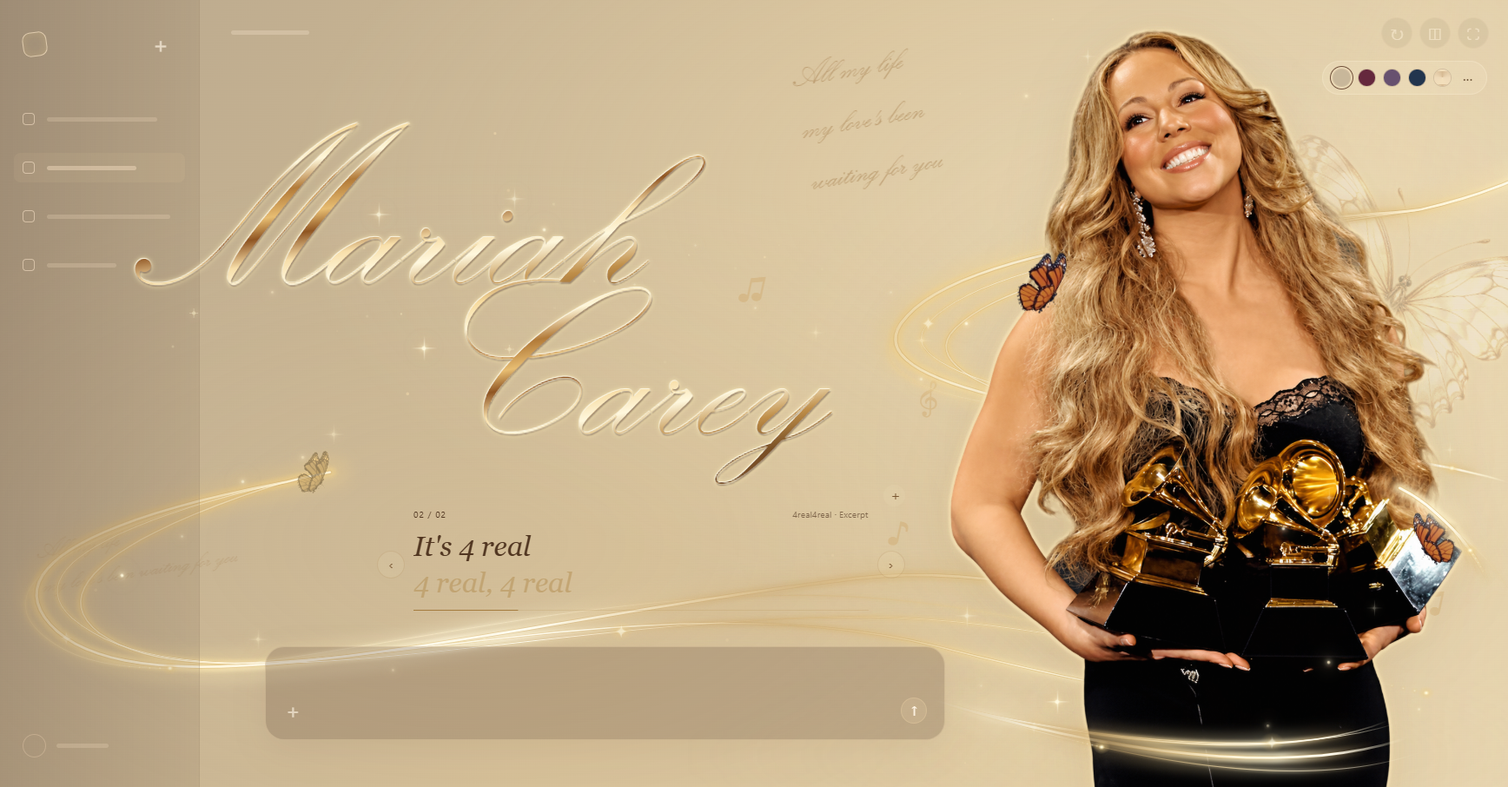
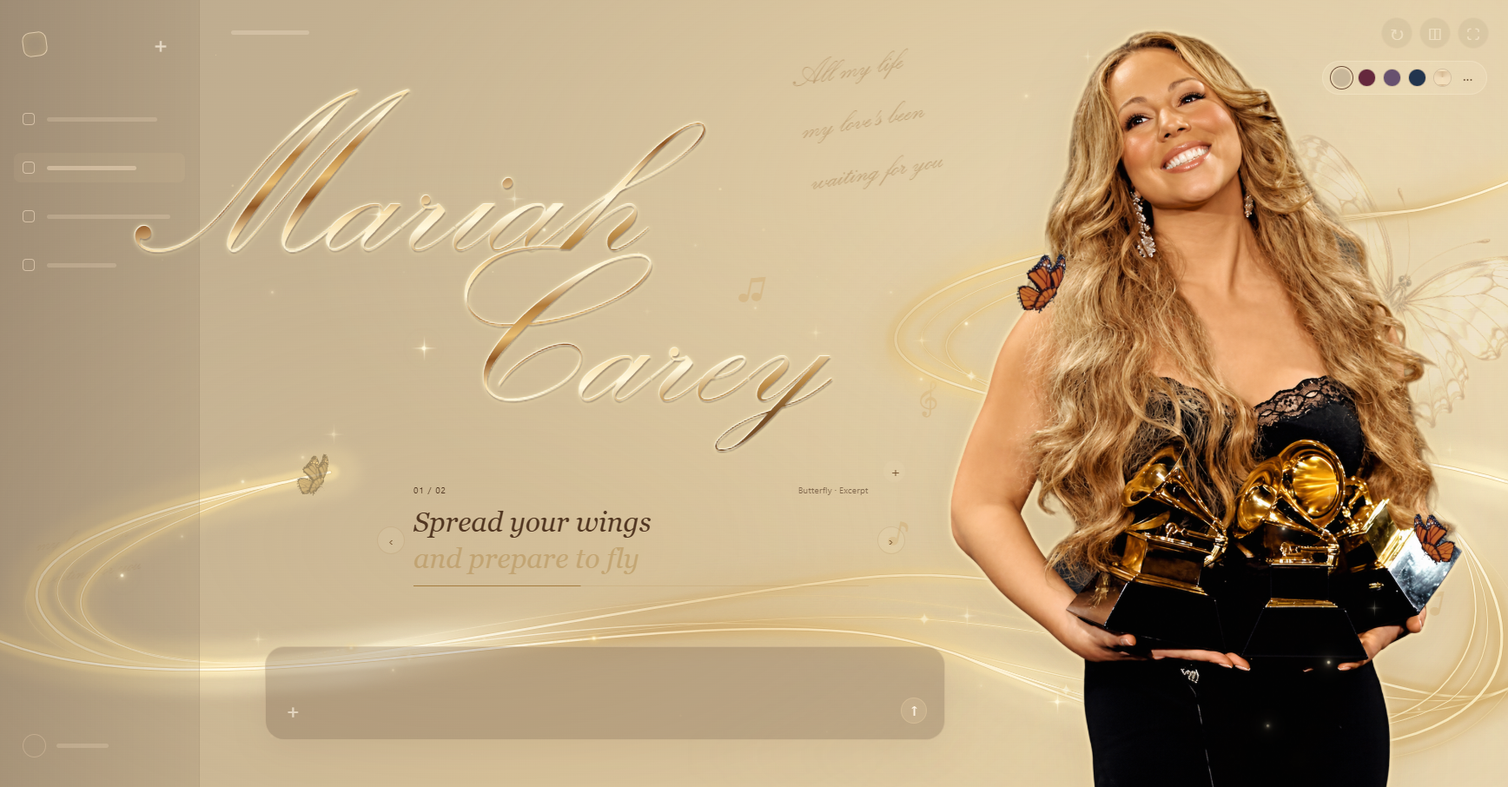
Refine connected light trails and daily lyric controls

diff --git a/theme-upgrade.js b/theme-upgrade.js
@@ -7,31 +7,35 @@
  const butterfly=document.createElementNS(svgNS,'svg');butterfly.classList.add('rear-butterfly');butterfly.setAttribute('viewBox','60 20 180 210');butterfly.setAttribute('aria-hidden','true');const wing=document.createElementNS(svgNS,'image');wing.setAttribute('href','butterfly-frames/sheet00.webp');wing.setAttribute('width','2800');wing.setAttribute('height','1620');butterfly.append(wing);stage.append(butterfly);
  const stars=document.createElement('div');stars.className='accent-stars';stars.setAttribute('aria-hidden','true');for(const [i,p] of [[68,9],[84,28],[75,56],[82,63],[89,74],[94,88],[28,32],[43,51],[17,67]].entries()){const star=document.createElement('span');star.className='accent-star';star.style.cssText=`left:${p[0]}%;top:${p[1]}%;animation-delay:-${i*1.7}s`;stars.append(star)}stage.append(stars);
  const upper=document.createElement('p'),lower=document.createElement('p');upper.className='bg-words upper';lower.className='bg-words lower';stage.append(upper,lower);
- const KEY='mariah.lyrics.v1',DAILY='mariah.daily.allmylife.v1';let storageError=false;
+ const KEY='mariah.lyrics.v1';let storageError=false;
  function read(key,fallback){try{return JSON.parse(localStorage.getItem(key))??fallback}catch{return fallback}}
  function write(key,data){try{localStorage.setItem(key,JSON.stringify(data));return true}catch{storageError=true;return false}}
  function validSong(s){return s&&typeof s.id==='string'&&typeof s.title==='string'&&Array.isArray(s.lines)&&s.lines.length&&s.lines.every(l=>typeof l.text==='string'&&Number.isFinite(l.time)&&l.time>=0)}
  let saved=read(KEY,{songs:[],seconds:5});let songs=Array.isArray(saved.songs)?saved.songs.filter(validSong):[];let seconds=Math.min(30,Math.max(2,Number(saved.seconds)||5));
+ let displayMode=saved.displayMode==='two'?'two':'all';
  // Brief verified excerpts; full lyrics are not bundled.
  const demo=[{id:'excerpt-butterfly',title:'Butterfly · Excerpt',timed:false,lines:['Spread your wings','and prepare to fly'].map(text=>({text,time:0}))},{id:'excerpt-4real4real',title:'4real4real · Excerpt',timed:false,lines:["It's 4 real",'4 real, 4 real'].map(text=>({text,time:0}))}];
  const panel=document.createElement('section');panel.className='lyrics-panel';panel.setAttribute('aria-label','滚动歌词');panel.innerHTML='<button class="lyrics-manage" title="导入与管理歌词" aria-label="导入与管理歌词">＋</button><div class="lyrics-top"><span class="song-number"></span><span class="song-title"></span></div><div class="lyric-display"><button class="lyric-arrow previous-song" aria-label="上一首">‹</button><div class="lyric-window" aria-live="off"></div><button class="lyric-arrow next-song" aria-label="下一首">›</button></div><div class="lyric-progress"><span></span></div>';stage.append(panel);
- const dialog=document.createElement('dialog');dialog.className='library';dialog.innerHTML='<header><h2>歌词库</h2><button class="library-close" aria-label="关闭">×</button></header><p>批量导入 TXT / LRC，保存在当前浏览器。仅展示文字，不播放音乐。点击歌名可修改。</p><div class="library-actions"><label class="library-upload">导入歌词<input type="file" accept=".txt,.lrc" multiple hidden></label></div><label for="txt-seconds">无时间戳歌词，每句 <input id="txt-seconds" type="number" min="2" max="30" step="1"> 秒</label><div class="library-list"></div><p class="library-feedback" role="status"></p>';document.body.append(dialog);
+ const dialog=document.createElement('dialog');dialog.className='library';dialog.innerHTML='<header><h2>歌词库</h2><button class="library-close" aria-label="关闭">×</button></header><p>批量导入 TXT / LRC，保存在当前浏览器。仅展示文字，不播放音乐。每天固定一首循环展示，次日自动更换。背景使用另一首已设置背景片段的歌曲。</p><div class="library-actions"><label class="library-upload">导入歌词<input type="file" accept=".txt,.lrc" multiple hidden></label></div><label for="txt-seconds">无时间戳歌词，每句 <input id="txt-seconds" type="number" min="2" max="30" step="1"> 秒</label><label class="library-setting">滚动范围 <select id="lyrics-range"><option value="all">全部歌词</option><option value="two">指定两句</option></select></label><div class="library-list"></div><p class="library-feedback" role="status"></p>';document.body.append(dialog);
  const windowEl=panel.querySelector('.lyric-window'),progress=panel.querySelector('.lyric-progress span'),feedback=dialog.querySelector('.library-feedback');let activeId='',index=0,started=performance.now(),lineIndex=-1,lastDate='',lastTick=0,raf=0,animations=[];
- function library(){return songs.length?songs:demo}function persist(){const ok=write(KEY,{songs,seconds});if(!ok)feedback.textContent='浏览器存储不可用，本次导入仅在当前页面有效。';return ok}
- function schedule(song){return song.lines.map((l,i)=>({text:l.text,time:song.timed?l.time:i*seconds}))}
+ function library(){return songs.length?songs:demo}function persist(){const ok=write(KEY,{songs,seconds,displayMode});if(!ok)feedback.textContent='浏览器存储不可用，本次导入仅在当前页面有效。';return ok}
+ function schedule(song){const start=Math.min(song.startLine||0,Math.max(0,song.lines.length-2));const selected=displayMode==='two'?song.lines.slice(start,start+2):song.lines;const base=selected[0].time;return selected.map((l,i)=>({text:l.text,time:song.timed?l.time-base:i*seconds}))}
  function disposeAnimations(){animations.forEach(a=>a.cancel());animations=[]}
  function showLines(lines,i,slide){disposeAnimations();const old=windowEl.children[0]?.textContent;windowEl.replaceChildren();const rows=slide?[old||'',lines[i].text,lines[i+1]?.text||lines[0].text]:[lines[i].text,lines[i+1]?.text||lines[0].text];rows.forEach((text,j)=>{const row=document.createElement('div');row.className='lyric-line';row.textContent=text;const finalRow=slide?j-1:j;row.style.transform=`translateY(${finalRow*42}px)`;row.style.opacity=finalRow===0?'1':finalRow===1?'.5':'0';if(finalRow===1)row.classList.add('lyric-next');windowEl.append(row);if(slide&&!reduced){animations.push(row.animate([{transform:`translateY(${j*42}px)`,opacity:j===0?1:j===1?.5:0},{transform:`translateY(${finalRow*42}px)`,opacity:finalRow===0?1:finalRow===1?.5:0}],{duration:650,easing:'cubic-bezier(.25,.1,.25,1)'}))}});if(slide){setTimeout(()=>{if(windowEl.children.length===3)windowEl.children[0].remove()},680)}}
- function setSong(n){const list=library();index=((n%list.length)+list.length)%list.length;activeId=list[index].id;started=performance.now();lineIndex=-1;disposeAnimations();windowEl.replaceChildren();panel.querySelector('.song-number').textContent=`${String(index+1).padStart(2,'0')} / ${String(list.length).padStart(2,'0')}`;panel.querySelector('.song-title').textContent=list[index].title;panel.querySelector('.song-title').title=list[index].title;if(!reduced)windowEl.animate([{opacity:0},{opacity:1}],{duration:650});tick(started,true)}
- function tick(now,force=false){if(!force&&now-lastTick<40)return;lastTick=now;const song=library()[index];if(!song)return;const lines=schedule(song),elapsed=(now-started)/1000,duration=lines.at(-1).time+seconds;if(elapsed>=duration){const total=library().length;setSong(total>1?(index+1+Math.floor(Math.random()*(total-1)))%total:0);return}let next=0;while(next+1<lines.length&&elapsed>=lines[next+1].time)next++;if(next!==lineIndex){showLines(lines,next,lineIndex>=0&&next===lineIndex+1);lineIndex=next}progress.style.transform=`scaleX(${Math.min(1,elapsed/duration)})`}
+ function setSong(n){const list=library();index=((n%list.length)+list.length)%list.length;activeId=list[index].id;started=performance.now();lineIndex=-1;disposeAnimations();windowEl.replaceChildren();panel.querySelector('.song-number').textContent=`${String(index+1).padStart(2,'0')} / ${String(list.length).padStart(2,'0')}`;panel.querySelector('.song-title').textContent=list[index].title;panel.querySelector('.song-title').title=list[index].title;if(!reduced)windowEl.animate([{opacity:0},{opacity:1}],{duration:650});tick(started,true);updateBackground()}
+ function tick(now,force=false){if(!force&&now-lastTick<40)return;lastTick=now;const song=library()[index];if(!song)return;const lines=schedule(song),elapsed=(now-started)/1000,duration=lines.at(-1).time+seconds;if(elapsed>=duration){setSong(index);return}let next=0;while(next+1<lines.length&&elapsed>=lines[next+1].time)next++;if(next!==lineIndex){showLines(lines,next,lineIndex>=0&&next===lineIndex+1);lineIndex=next}progress.style.transform=`scaleX(${Math.min(1,elapsed/duration)})`}
  function loop(now){if(!document.hidden)tick(now);raf=requestAnimationFrame(loop)}
  panel.querySelector('.previous-song').onclick=()=>setSong(index-1);panel.querySelector('.next-song').onclick=()=>setSong(index+1);panel.querySelector('.lyrics-manage').onclick=()=>{renderLibrary();dialog.showModal()};dialog.querySelector('.library-close').onclick=()=>dialog.close();dialog.addEventListener('click',e=>{if(e.target===dialog){const r=dialog.getBoundingClientRect();if(e.clientX<r.left||e.clientX>r.right||e.clientY<r.top||e.clientY>r.bottom)dialog.close()}});
- function renderLibrary(){dialog.querySelector('#txt-seconds').value=seconds;const list=dialog.querySelector('.library-list');list.replaceChildren();if(!songs.length){const p=document.createElement('p');p.textContent='当前展示 Butterfly 与 4real4real 的简短节选。';list.append(p)}songs.forEach(song=>{const row=document.createElement('div');row.className='library-row';const info=document.createElement('div'),name=document.createElement('input'),detail=document.createElement('small'),remove=document.createElement('button');name.value=song.title;name.setAttribute('aria-label','歌曲名称');name.onchange=()=>{song.title=name.value.trim()||'未命名歌曲';name.value=song.title;persist();if(activeId===song.id)panel.querySelector('.song-title').textContent=song.title};detail.textContent=`${song.lines.length} 行 · ${song.timed?'LRC 时间戳':'逐句计时'}`;remove.textContent='删除';remove.onclick=()=>{songs=songs.filter(s=>s.id!==song.id);persist();renderLibrary();setSong(0)};info.append(name,detail);row.append(info,remove);list.append(row)})}
+ function renderLibrary(){dialog.querySelector('#txt-seconds').value=seconds;dialog.querySelector('#lyrics-range').value=displayMode;const list=dialog.querySelector('.library-list');list.replaceChildren();if(!songs.length){const p=document.createElement('p');p.textContent='当前展示 Butterfly 与 4real4real 的简短节选。';list.append(p)}songs.forEach(song=>{const row=document.createElement('div');row.className='library-row';const info=document.createElement('div'),name=document.createElement('input'),detail=document.createElement('small'),remove=document.createElement('button');name.value=song.title;name.setAttribute('aria-label','歌曲名称');name.onchange=()=>{song.title=name.value.trim()||'未命名歌曲';name.value=song.title;persist();if(activeId===song.id)panel.querySelector('.song-title').textContent=song.title};detail.textContent=`${song.lines.length} 行 · ${song.timed?'LRC 时间戳':'逐句计时'}`;remove.textContent='删除';remove.onclick=()=>{songs=songs.filter(s=>s.id!==song.id);persist();renderLibrary();setSong(0);updateBackground()};const range=document.createElement('select');range.setAttribute('aria-label',song.title+'：选择滚动的两句');song.lines.forEach((line,i)=>{if(i>Math.max(0,song.lines.length-2))return;const option=document.createElement('option');option.value=i;option.textContent=`第 ${i+1} 句起：${line.text}`;range.append(option)});range.value=Math.min(song.startLine||0,Math.max(0,song.lines.length-2));range.disabled=displayMode!=='two';range.onchange=()=>{song.startLine=Number(range.value);persist();if(activeId===song.id)setSong(index)};const background=document.createElement('textarea');background.rows=3;background.placeholder='背景歌词片段（从你上传的歌词中选择，逐行填写）';background.setAttribute('aria-label',song.title+'：背景歌词片段');background.value=Array.isArray(song.background)?song.background.join('\n'):'';background.onchange=()=>{const requested=background.value.split(/\r?\n/).map(t=>t.trim()).filter(Boolean);const available=new Set(song.lines.map(l=>l.text));if(requested.some(t=>!available.has(t))){feedback.textContent='背景片段请填写这首歌已导入的原句。';return}song.background=requested;persist();updateBackground()};info.append(name,detail,range,background);row.append(info,remove);list.append(row)})}
+ dialog.querySelector('#lyrics-range').onchange=e=>{displayMode=e.target.value;persist();setSong(index);renderLibrary()};
  dialog.querySelector('#txt-seconds').onchange=e=>{seconds=Math.min(30,Math.max(2,Number(e.target.value)||5));e.target.value=seconds;persist();setSong(index)};
  function parse(text,fileName){text=text.replace(/^\uFEFF/,'');const title=text.match(/\[ti:([^\]]+)\]/i)?.[1]?.trim()||fileName.replace(/\.(txt|lrc)$/i,'');const offset=Number(text.match(/\[offset:([+-]?\d+)\]/i)?.[1]||0)/1000;const timed=[];const plain=[];for(const raw of text.split(/\r?\n/)){const stamps=[...raw.matchAll(/\[(\d+):(\d{1,2}(?:\.\d+)?)\]/g)];const content=raw.replace(/\[[^\]]*\]/g,'').trim();if(!content)continue;if(stamps.length){for(const m of stamps)timed.push({time:Math.max(0,Number(m[1])*60+Number(m[2])+offset),text:content})}else if(!/^\s*\[/.test(raw))plain.push({time:0,text:content})}const lines=timed.length?timed.sort((a,b)=>a.time-b.time):plain;return lines.length?{id:crypto.randomUUID(),title,timed:timed.length>0,lines}:null}
- dialog.querySelector('input[type=file]').onchange=async e=>{let added=0;const rejected=[];for(const file of e.target.files){if(!/\.(txt|lrc)$/i.test(file.name)){rejected.push(file.name);continue}try{const song=parse(await file.text(),file.name);if(song){songs.push(song);added++}else rejected.push(file.name)}catch{rejected.push(file.name)}}if(added){persist();setSong(songs.length-added)}renderLibrary();feedback.textContent=storageError?'浏览器存储不可用，当前数据尚未持久保存。':`已导入 ${added} 首。${rejected.length?'未能读取：'+rejected.join('、'):''}`;e.target.value=''};
+ dialog.querySelector('input[type=file]').onchange=async e=>{let added=0;const rejected=[];for(const file of e.target.files){if(!/\.(txt|lrc)$/i.test(file.name)){rejected.push(file.name);continue}try{const song=parse(await file.text(),file.name);if(song){songs.push(song);added++}else rejected.push(file.name)}catch{rejected.push(file.name)}}if(added){persist();setSong(dayIndex(songs.length));updateBackground()}renderLibrary();feedback.textContent=storageError?'浏览器存储不可用，当前数据尚未持久保存。':`已导入 ${added} 首。${rejected.length?'未能读取：'+rejected.join('、'):''}`;e.target.value=''};
  function dateKey(){const d=new Date();return `${d.getFullYear()}-${String(d.getMonth()+1).padStart(2,'0')}-${String(d.getDate()).padStart(2,'0')}`}
- function daily(){const day=dateKey();if(day===lastDate)return;lastDate=day;let cached=read(DAILY,null);if(cached?.day!==day||!Array.isArray(cached.text)){const upperLines=['All my life',"my love's been",'waiting for you'];const lowerLines=['All my life',"my love's been waiting for you"];const picked=[...upperLines,...lowerLines];cached={day,text:picked};write(DAILY,cached)}for(const [el,lines] of [[upper,cached.text.slice(0,3)],[lower,cached.text.slice(3,5)]]){el.replaceChildren();for(const text of lines){const line=document.createElement('span');line.textContent=text;el.append(line)}}}
- daily();let dailyTimer=setInterval(daily,15000);setSong(0);raf=requestAnimationFrame(loop);
+ function dayIndex(count){const d=new Date();return Math.floor(Date.UTC(d.getFullYear(),d.getMonth(),d.getDate())/86400000)%count}
+ function updateBackground(){const list=library();const candidates=list.filter(s=>s.id!==activeId&&Array.isArray(s.background)&&s.background.length);const picked=candidates.length?candidates[dayIndex(candidates.length)].background:['All my life',"my love's been",'waiting for you'];for(const [el,lines] of [[upper,picked.slice(0,4)],[lower,picked.slice(-2)]]){el.replaceChildren();for(const text of lines){const line=document.createElement('span');line.textContent=text;el.append(line)}}}
+ function daily(){const day=dateKey();if(day===lastDate)return;lastDate=day;setSong(dayIndex(library().length));updateBackground()}
+ daily();let dailyTimer=setInterval(daily,15000);raf=requestAnimationFrame(loop);
  document.querySelector('#replay').addEventListener('click',()=>{panel.style.animation='none';void panel.offsetWidth;panel.style.animation=''});
  addEventListener('pagehide',()=>{cancelAnimationFrame(raf);clearInterval(dailyTimer);disposeAnimations()});addEventListener('pageshow',e=>{if(e.persisted){daily();dailyTimer=setInterval(daily,15000);raf=requestAnimationFrame(loop)}});
 })();

diff --git a/reference-visual.js b/reference-visual.js
@@ -78,15 +78,15 @@ stage.classList.add('flow-study');
 function mount(curves,key,front=false){
 const svg=document.createElementNS(NS,'svg');svg.setAttribute('class','golden-flow-study');svg.setAttribute('viewBox','0 0 1600 1000');svg.setAttribute('preserveAspectRatio','none');svg.setAttribute('aria-hidden','true');
 svg.innerHTML=`<defs>
-<linearGradient id="flowGold" x1="0" y1="0" x2="1" y2=".3"><stop stop-color="#bd9250" stop-opacity="0"/><stop offset=".15" stop-color="#efcf89" stop-opacity=".8"/><stop offset=".32" stop-color="#f6dfa6"/><stop offset=".44" stop-color="#fff8dc"/><stop offset=".56" stop-color="#c9a263" stop-opacity=".3"/><stop offset=".72" stop-color="#edd39a"/><stop offset=".88" stop-color="#fff4ce"/><stop offset="1" stop-color="#d1ab68" stop-opacity="0"/></linearGradient>
-<linearGradient id="flowEdge" x1="0" y1="0" x2="1" y2=".3"><stop stop-color="#b68d50" stop-opacity="0"/><stop offset=".2" stop-color="#c8a361" stop-opacity=".65"/><stop offset=".42" stop-color="#e9cc8e"/><stop offset=".57" stop-color="#bd9556" stop-opacity=".35"/><stop offset=".8" stop-color="#ddbd7a"/><stop offset="1" stop-color="#cfac6a" stop-opacity="0"/></linearGradient>
-<linearGradient id="flowCore" x1="0" y1="0" x2="1" y2=".2"><stop stop-color="#fff8df" stop-opacity="0"/><stop offset=".18" stop-color="#fff5d8" stop-opacity=".8"/><stop offset=".3" stop-color="#fff9e5"/><stop offset=".43" stop-color="#fffdf0"/><stop offset=".56" stop-color="#f5deb0" stop-opacity=".15"/><stop offset=".76" stop-color="#fff6db"/><stop offset=".9" stop-color="#fffbed"/><stop offset="1" stop-color="#fff4ce" stop-opacity="0"/></linearGradient>
+<linearGradient id="flowGold" x1="0" y1="0" x2="1" y2=".3"><stop stop-color="#bd9250" stop-opacity="0"/><stop offset=".15" stop-color="#efcf89" stop-opacity=".8"/><stop offset=".32" stop-color="#f6dfa6"/><stop offset=".44" stop-color="#fff8dc"/><stop offset=".56" stop-color="#c9a263" stop-opacity=".3"/><stop offset=".72" stop-color="#edd39a"/><stop offset=".88" stop-color="#fff4ce"/><stop offset="1" stop-color="#d1ab68" stop-opacity=".65"/></linearGradient>
+<linearGradient id="flowEdge" x1="0" y1="0" x2="1" y2=".3"><stop stop-color="#b68d50" stop-opacity="0"/><stop offset=".2" stop-color="#c8a361" stop-opacity=".65"/><stop offset=".42" stop-color="#e9cc8e"/><stop offset=".57" stop-color="#bd9556" stop-opacity=".35"/><stop offset=".8" stop-color="#ddbd7a"/><stop offset="1" stop-color="#cfac6a" stop-opacity=".65"/></linearGradient>
+<linearGradient id="flowCore" x1="0" y1="0" x2="1" y2=".2"><stop stop-color="#fff8df" stop-opacity="0"/><stop offset=".18" stop-color="#fff5d8" stop-opacity=".8"/><stop offset=".3" stop-color="#fff9e5"/><stop offset=".43" stop-color="#fffdf0"/><stop offset=".56" stop-color="#f5deb0" stop-opacity=".65"/><stop offset=".76" stop-color="#fff6db"/><stop offset=".9" stop-color="#fffbed"/><stop offset="1" stop-color="#fff4ce" stop-opacity=".8"/></linearGradient>
 <filter id="flowMiddle" x="-8%" y="-30%" width="116%" height="160%" color-interpolation-filters="sRGB"><feGaussianBlur stdDeviation="2.3"/></filter>
 <filter id="flowOuter" x="-8%" y="-30%" width="116%" height="160%" color-interpolation-filters="sRGB"><feGaussianBlur stdDeviation="7"/></filter>
 <radialGradient id="flowPoint"><stop stop-color="#fffdf1"/><stop offset=".12" stop-color="#fff6cd" stop-opacity=".95"/><stop offset=".4" stop-color="#efcf88" stop-opacity=".4"/><stop offset="1" stop-color="#efcf88" stop-opacity="0"/></radialGradient>
 </defs>`;
 
-const groups={};for(const [name,filter,width,opacity] of [['outer','url(#flowOuter)',26,.28],['middle','url(#flowMiddle)',8,.75],['body','none',2.8,.7],['core','none',1.45,1]]){const g=document.createElementNS(NS,'g');g.setAttribute('class','flow-'+name);g.setAttribute('fill','none');g.setAttribute('stroke',name==='core'?'url(#flowCore)':name==='body'?'url(#flowEdge)':'url(#flowGold)');g.setAttribute('stroke-linecap','round');g.setAttribute('filter',filter);g.setAttribute('opacity',opacity);curves.forEach((d,i)=>{const path=document.createElementNS(NS,'path');path.setAttribute('d',d);path.setAttribute('stroke-width',width*(name==='core'?[2.1,.7,.32,1.15]:[1.7,.65,.3,1.05])[i]);if(name==='core')path.id='flow-track-'+i;g.append(path)});svg.append(g);groups[name]=g}
+const groups={};for(const [name,filter,width,opacity] of [['outer','url(#flowOuter)',26,.28],['middle','url(#flowMiddle)',8,.75],['body','none',2.8,.7],['core','none',1.45,1]]){const g=document.createElementNS(NS,'g');g.setAttribute('class','flow-'+name);g.setAttribute('fill','none');g.setAttribute('stroke',name==='core'?'url(#flowCore)':name==='body'?'url(#flowEdge)':'url(#flowGold)');g.setAttribute('stroke-linecap','round');g.setAttribute('filter',filter);g.setAttribute('opacity',opacity);curves.forEach((d,i)=>{const path=document.createElementNS(NS,'path');path.setAttribute('d',d);path.setAttribute('stroke-width',width*(name==='core'?[2.1,.7,.32,1.15]:name==='outer'?[2.5,.6,.22,1.5]:name==='middle'?[2.5,.65,.3,1.45]:[1.7,.65,.3,1.05])[i]);if(name==='core')path.id='flow-track-'+i;g.append(path)});svg.append(g);groups[name]=g}
 const glints=document.createElementNS(NS,'g');glints.classList.add('flow-moving');
 for(const [i,duration,delay] of [[0,12,0],[2,14,-7]]){const head=document.createElementNS(NS,'g');for(let j=5;j>=0;j--){const dot=document.createElementNS(NS,'circle');dot.setAttribute('r',j===0?'9':String(5-j*.45));dot.setAttribute('fill','url(#flowPoint)');dot.setAttribute('opacity',String(j===0?1:.5-j*.06));const motion=document.createElementNS(NS,'animateMotion');motion.setAttribute('dur',duration+'s');motion.setAttribute('begin',(delay+j*.07)+'s');motion.setAttribute('repeatCount','indefinite');motion.setAttribute('path',curves[i]);dot.append(motion);const fade=document.createElementNS(NS,'animate');fade.setAttribute('attributeName','opacity');fade.setAttribute('values',`0;${j===0?1:.5-j*.06};${j===0?1:.5-j*.06};0`);fade.setAttribute('keyTimes','0;.08;.9;1');fade.setAttribute('dur',duration+'s');fade.setAttribute('begin',(delay+j*.07)+'s');fade.setAttribute('repeatCount','indefinite');dot.append(fade);head.append(dot)}glints.append(head)}svg.append(glints);
 for(const [i,t] of [[0,.2],[1,.47],[2,.75]]){const path=groups.core.children[i],point=path.getPointAtLength(path.getTotalLength()*t),star=document.createElementNS(NS,'g');star.setAttribute('class','flow-star');star.style.animationDelay=(-i*3)+'s';star.innerHTML=`<circle cx="${point.x}" cy="${point.y}" r="13" fill="url(#flowPoint)"/><path d="M ${point.x-6} ${point.y} Q ${point.x} ${point.y-1} ${point.x} ${point.y-8} Q ${point.x+1} ${point.y} ${point.x+6} ${point.y} Q ${point.x} ${point.y+1} ${point.x} ${point.y+8} Q ${point.x-1} ${point.y} ${point.x-6} ${point.y}" fill="#fff9de"/>`;svg.append(star)}
@@ -94,22 +94,22 @@ const moving=document.createElementNS(NS,'svg');moving.setAttribute('class','gol
 for(const root of [svg,moving]){root.dataset.flowGroup=key;if(front)root.classList.add('golden-flow-front');for(const el of root.querySelectorAll('*'))for(const attr of [...el.attributes]){if(attr.name==='id')el.setAttribute('id',attr.value+'-'+key);else if(attr.value.includes('url(#flow'))el.setAttribute(attr.name,attr.value.replace(/url\(#(flow[^)]+)\)/g,`url(#$1-${key})`))}}stage.append(svg,moving);
 }
 const curves=[
-'M 350 600 C 333 604 318 608 305 612 C 292 616 -32 679 53 793 C 149 922 544 787 908 735 C 1190 695 1495 938 1600 875 C 1635 854 1670 835 1735 819',
-'M 350 600 C 333 604 318 608 305 612 C 292 616 -10.5 691.5 76.5 785.5 C 206 917.5 579 781 924 784 C 1200 788 1495 938 1600 875 C 1635 854 1670 835 1735 819',
-'M 350 600 C 333 604 318 608 305 612 C 292 616 -62.5 703 48.5 810 C 180 935.5 585 714 963 764 C 1217 797 1495 938 1600 875 C 1635 854 1670 835 1735 819',
-'M 350 600 C 333 604 318 608 305 612 C 292 616 9.5 715.5 105.5 804.5 C 241.5 922.5 657 719 997 822 C 1278 908 1495 938 1600 875 C 1635 854 1670 835 1735 819'
+'M 350 600 C 333 604 318 608 305 612 C 292 616 -32 679 53 793 C 149 922 544 787 908 735 C 1190 695 1495 938 1600 875 C 1635 854 1670 835 1735 819 C 1840 793 1820 590 1780 460 C 1750 355 1720 255 1645 208',
+'M 350 600 C 333 604 318 608 305 612 C 292 616 -10.5 691.5 76.5 785.5 C 206 917.5 579 781 924 784 C 1200 788 1495 938 1600 875 C 1635 854 1670 835 1735 819 C 1840 793 1820 590 1780 460 C 1750 355 1720 255 1645 208',
+'M 350 600 C 333 604 318 608 305 612 C 292 616 -62.5 703 48.5 810 C 180 935.5 585 714 963 764 C 1217 797 1495 938 1600 875 C 1635 854 1670 835 1735 819 C 1840 793 1820 590 1780 460 C 1750 355 1720 255 1645 208',
+'M 350 600 C 333 604 318 608 305 612 C 292 616 9.5 715.5 105.5 804.5 C 241.5 922.5 657 719 997 822 C 1278 908 1495 938 1600 875 C 1635 854 1670 835 1735 819 C 1840 793 1820 590 1780 460 C 1750 355 1720 255 1645 208'
 ];
 mount(curves,'left');
 mount([
-'M 1645 208 C 1588 241 1548 255 1508 266 C 1468 277 1030 285 956 411 C 898 512 1278 543 1505 587 C 1600 606 1658 635 1700 654',
-'M 1645 208 C 1588 241 1548 255 1508 266 C 1468 277 1044 307 981 417 C 938 493 1292 548 1505 587 C 1600 606 1658 635 1700 654',
-'M 1645 208 C 1588 241 1548 255 1508 266 C 1468 277 1013 262 944 431 C 914 548 1294 514 1505 587 C 1600 606 1658 635 1700 654',
-'M 1645 208 C 1588 241 1548 255 1508 266 C 1468 277 1070 325 1008 425 C 961 511 1327 580 1505 587 C 1600 606 1658 635 1700 654'
+'M 1645 208 C 1588 241 1548 255 1508 266 C 1468 277 1030 285 956 411 C 898 512 1278 543 1505 587 C 1600 606 1658 635 1700 654 C 1760 680 1800 770 1735 819',
+'M 1645 208 C 1588 241 1548 255 1508 266 C 1468 277 1044 307 981 417 C 938 493 1292 548 1505 587 C 1600 606 1658 635 1700 654 C 1760 680 1800 770 1735 819',
+'M 1645 208 C 1588 241 1548 255 1508 266 C 1468 277 1013 262 944 431 C 914 548 1294 514 1505 587 C 1600 606 1658 635 1700 654 C 1760 680 1800 770 1735 819',
+'M 1645 208 C 1588 241 1548 255 1508 266 C 1468 277 1070 325 1008 425 C 961 511 1327 580 1505 587 C 1600 606 1658 635 1700 654 C 1760 680 1800 770 1735 819'
 ],'rear');
 mount([
-'M 905 866 C 950 875 982 886 1012 897 C 1042 908 1390 1035 1550 904 C 1635 834 1575 714 1542 673 C 1520 647 1507 633 1485 620',
-'M 905 866 C 950 875 982 886 1012 897 C 1042 908 1380 1002 1538 890 C 1610 823 1569 713 1542 673 C 1520 647 1507 633 1485 620',
-'M 905 866 C 950 875 982 886 1012 897 C 1042 908 1410 1063 1567 918 C 1668 824 1593 718 1542 673 C 1520 647 1507 633 1485 620',
-'M 905 866 C 950 875 982 886 1012 897 C 1042 908 1402 1014 1527 876 C 1594 796 1557 710 1542 673 C 1520 647 1507 633 1485 620'
+'M -80 754 C 90 959 580 770 905 803 C 950 808 982 819 1012 830 C 1042 841 1390 1035 1550 904 C 1635 834 1575 714 1542 673 C 1520 647 1507 633 1485 620 C 1435 590 1410 569 1370 561 C 1415 570 1465 579 1505 587 C 1600 606 1658 635 1700 654 C 1760 680 1800 770 1735 819',
+'M -80 754 C 90 959 580 770 905 803 C 950 808 982 819 1012 830 C 1042 841 1380 1002 1538 890 C 1610 823 1569 713 1542 673 C 1520 647 1507 633 1485 620 C 1435 590 1410 569 1370 561 C 1415 570 1465 579 1505 587 C 1600 606 1658 635 1700 654 C 1760 680 1800 770 1735 819',
+'M -80 754 C 90 959 580 770 905 803 C 950 808 982 819 1012 830 C 1042 841 1410 1063 1567 918 C 1668 824 1593 718 1542 673 C 1520 647 1507 633 1485 620 C 1435 590 1410 569 1370 561 C 1415 570 1465 579 1505 587 C 1600 606 1658 635 1700 654 C 1760 680 1800 770 1735 819',
+'M -80 754 C 90 959 580 770 905 803 C 950 808 982 819 1012 830 C 1042 841 1402 1014 1527 876 C 1594 796 1557 710 1542 673 C 1520 647 1507 633 1485 620 C 1435 590 1410 569 1370 561 C 1415 570 1465 579 1505 587 C 1600 606 1658 635 1700 654 C 1760 680 1800 770 1735 819'
 ],'front',true);
 })();

diff --git a/theme-upgrade.css b/theme-upgrade.css
@@ -41,3 +41,5 @@
 @media(max-width:700px){.stage .artist-name{left:-5%;top:17%;width:72%}.lyrics-panel{left:5%;width:58%;bottom:28%}.lyrics-top{margin-left:34px;margin-right:34px}.lyric-display{gap:4px;grid-template-columns:25px minmax(0,1fr) 25px}.lyric-arrow{width:25px;height:25px}.lyric-line{font-size:17px}.lyric-progress{margin:7px 30px 0}.bg-words.upper,.rear-butterfly{display:none}.composer{z-index:6}.stage .name-lights{opacity:.2}}
 @media(prefers-reduced-motion:reduce){.ribbon-light,.accent-star{animation:none}.ribbon-light{stroke-dasharray:none;opacity:.15}.accent-star{opacity:.2}.lyrics-panel{animation:none;opacity:1}}
 .bg-words span{display:block;white-space:nowrap;overflow:hidden;text-overflow:ellipsis;line-height:1.3}.bg-words.upper{left:53%;top:9%;max-width:16%;font-size:clamp(23px,2.2vw,34px)}.bg-words.lower{max-width:15%;font-size:clamp(21px,2.1vw,30px)}
+
+.library-setting{display:flex;gap:12px;align-items:center;margin-top:16px;font-size:13px}.library select,.library textarea{font:13px Segoe UI,sans-serif;color:#684b32;border:1px solid #ad8d5744;background:#fff9ec;border-radius:5px;padding:7px;max-width:100%}.library-row select,.library-row textarea{display:block;width:100%;margin-top:8px}.library-row textarea{resize:vertical}.library-row select:disabled{opacity:.5}

diff --git a/index.html b/index.html
@@ -72,7 +72,7 @@ function paintNameLight(time){nc.clearRect(0,0,nw,nh);const r=signature.getBound
 .stage[data-accent="blue"] .lyric-next{color:#ffecb8}
 .stage[data-accent="blue"] .lyrics-top{color:#fff1d3}
 .stage[data-accent="blue"] .bg-words.lower,.stage[data-accent="violet"] .bg-words.lower{color:#fff1d3;opacity:.4}
-</style><link rel="stylesheet" href="theme-upgrade.css?v=1"><script src="theme-upgrade.js?v=2"></script><link rel="stylesheet" href="reference-visual.css?v=33"><script src="reference-visual.js?v=27"></script></html>
+</style><link rel="stylesheet" href="theme-upgrade.css?v=2"><script src="theme-upgrade.js?v=3"></script><link rel="stylesheet" href="reference-visual.css?v=35"><script src="reference-visual.js?v=30"></script></html>
 
 
 

diff --git a/reference-visual.css b/reference-visual.css
@@ -218,7 +218,10 @@
 @keyframes flowStar{0%,100%{opacity:.3}50%{opacity:1}}
 @media(prefers-reduced-motion:reduce){.flow-moving{display:none}.flow-star{animation:none;opacity:.7}}
 
-.golden-flow-front{z-index:2;mask-image:linear-gradient(90deg,transparent 62%,#000 73%)}
+.golden-flow-front{z-index:0}
 
 /* Preserve pale champagne while separating the ground from the ivory light cores. */
 .stage[data-accent="champagne"]{background:radial-gradient(ellipse at 76% 25%,#fff3d74d,transparent 53%),radial-gradient(ellipse at 32% 69%,#dac6a326,transparent 50%),linear-gradient(115deg,#b8a78d,#d5bf97 48%,#e5d3b0)}
+
+/* Keep the signature clear of the song title on desktop. */
+@media(min-width:701px){.stage .artist-name{translate:0 -38px}}

diff --git a/README.md b/README.md
@@ -14,7 +14,7 @@
 - **H**：隐藏或显示界面，查看纯壁纸
 - **F**：全屏
 - 右上角展示五个配色圆点，点击「···」展开其余配色；点击空白处或按 Esc 收起。默认展示「浅香槟」
-- 歌词两侧箭头切换歌曲，小「＋」导入自己持有的 TXT / LRC 文件
+- 歌词两侧箭头切换歌曲，小「＋」批量导入自己持有的 TXT / LRC 文件，可选择整首循环或指定连续两句，并为背景设置另一首歌的片段；每天自动更换歌曲
 
 滚动区内置《Butterfly》和《4real4real》的简短节选，背景使用《All My Life》的简短节选；不包含完整歌词或音频。导入内容仅保存在当前浏览器。
 
